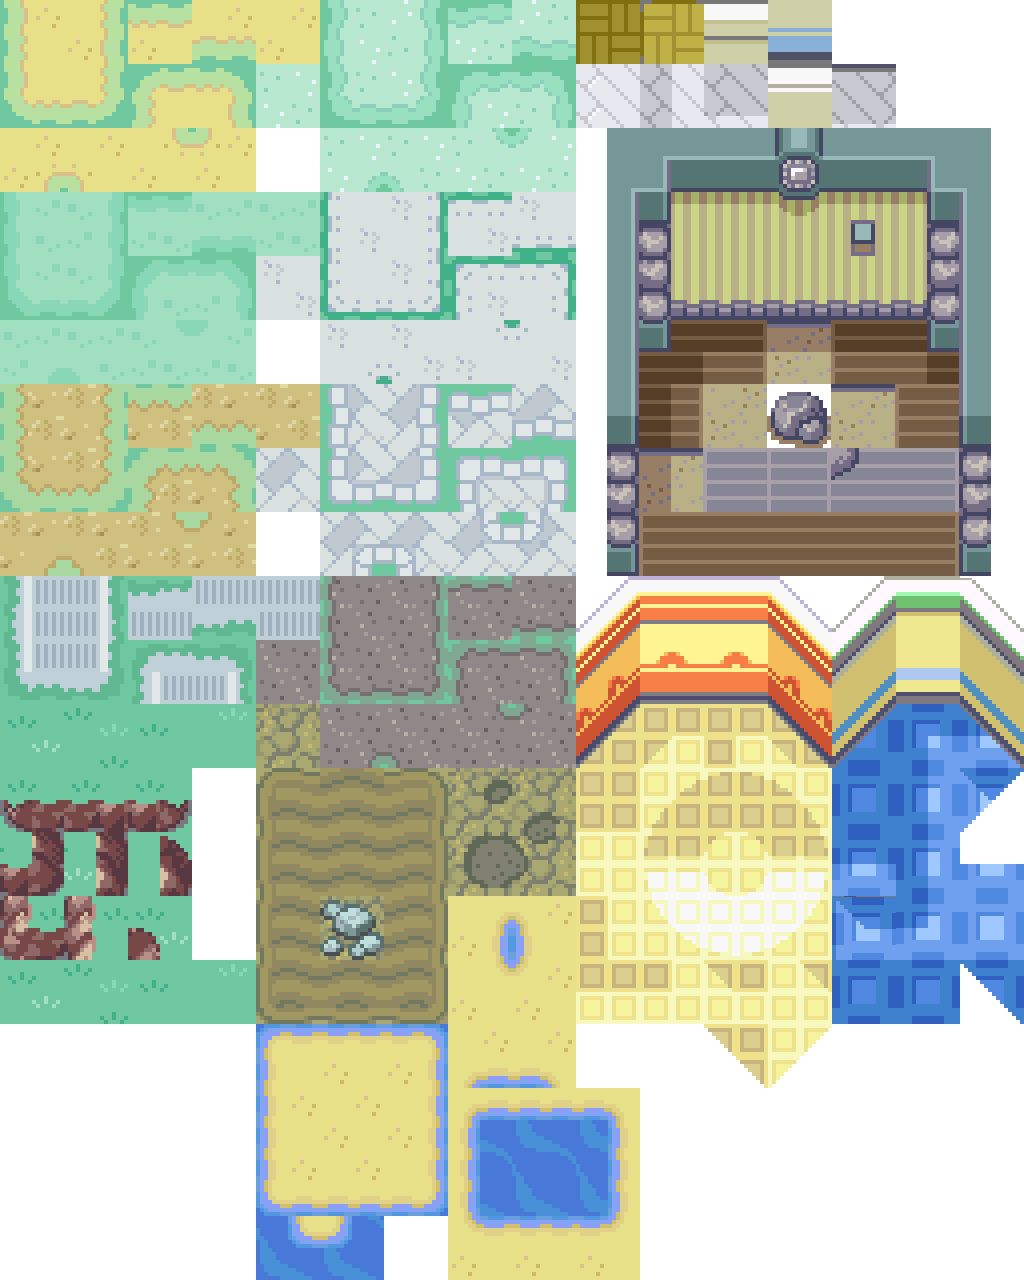
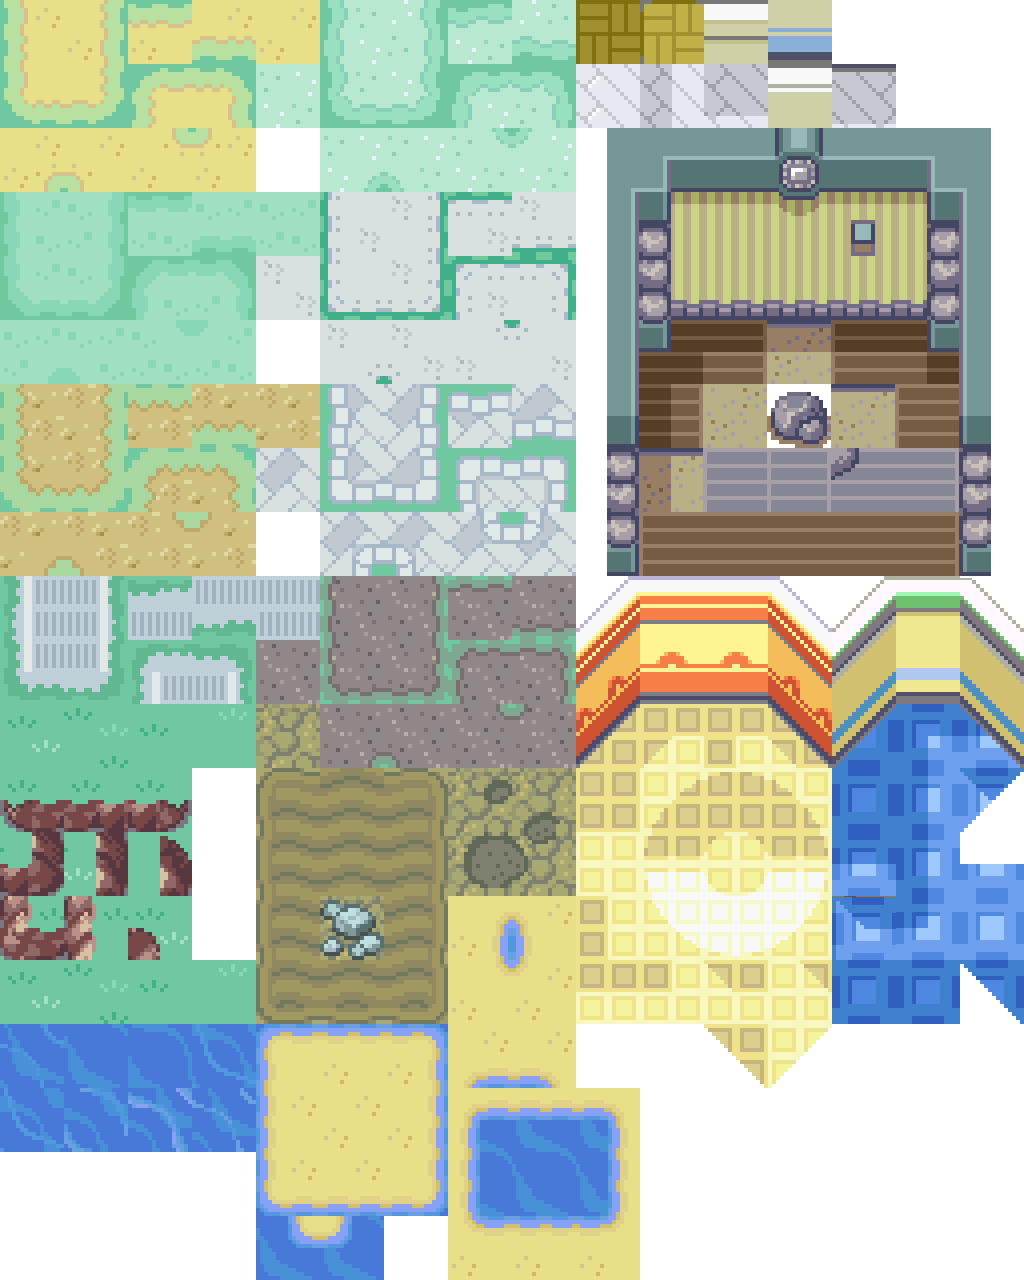
재원 맵툴 클래스
물 프레임이미지 추가 했어영

Changed region(s): [[0.0, 0.7812, 0.25, 0.9062]]

diff --git a/team15duckD2D/mapTool.cpp b/team15duckD2D/mapTool.cpp
@@ -1,0 +1,12 @@
+#include "stdafx.h"
+#include "mapTool.h"
+
+
+mapTool::mapTool()
+{
+}
+
+
+mapTool::~mapTool()
+{
+}

diff --git a/team15duckD2D/mapTool.h b/team15duckD2D/mapTool.h
@@ -1,0 +1,11 @@
+#pragma once
+#include "tileNode.h"
+
+
+class mapTool
+{
+public:
+	mapTool();
+	~mapTool();
+};
+
